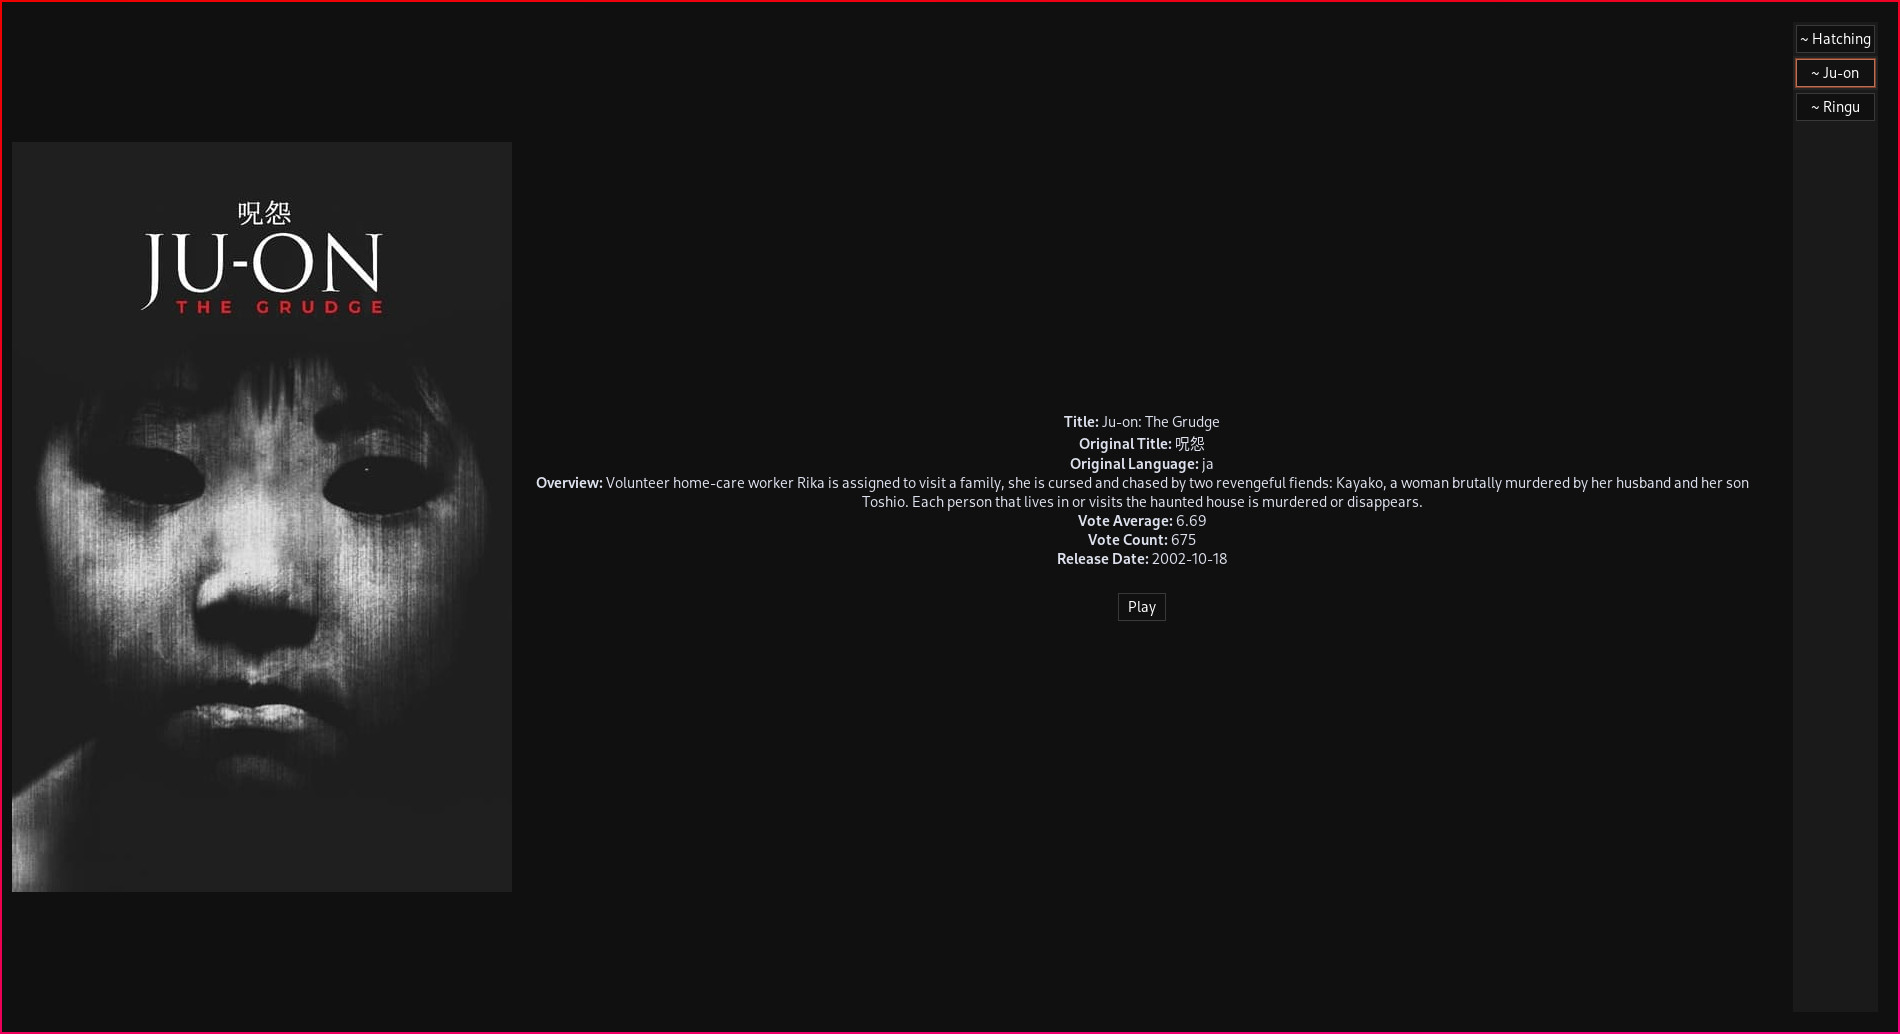
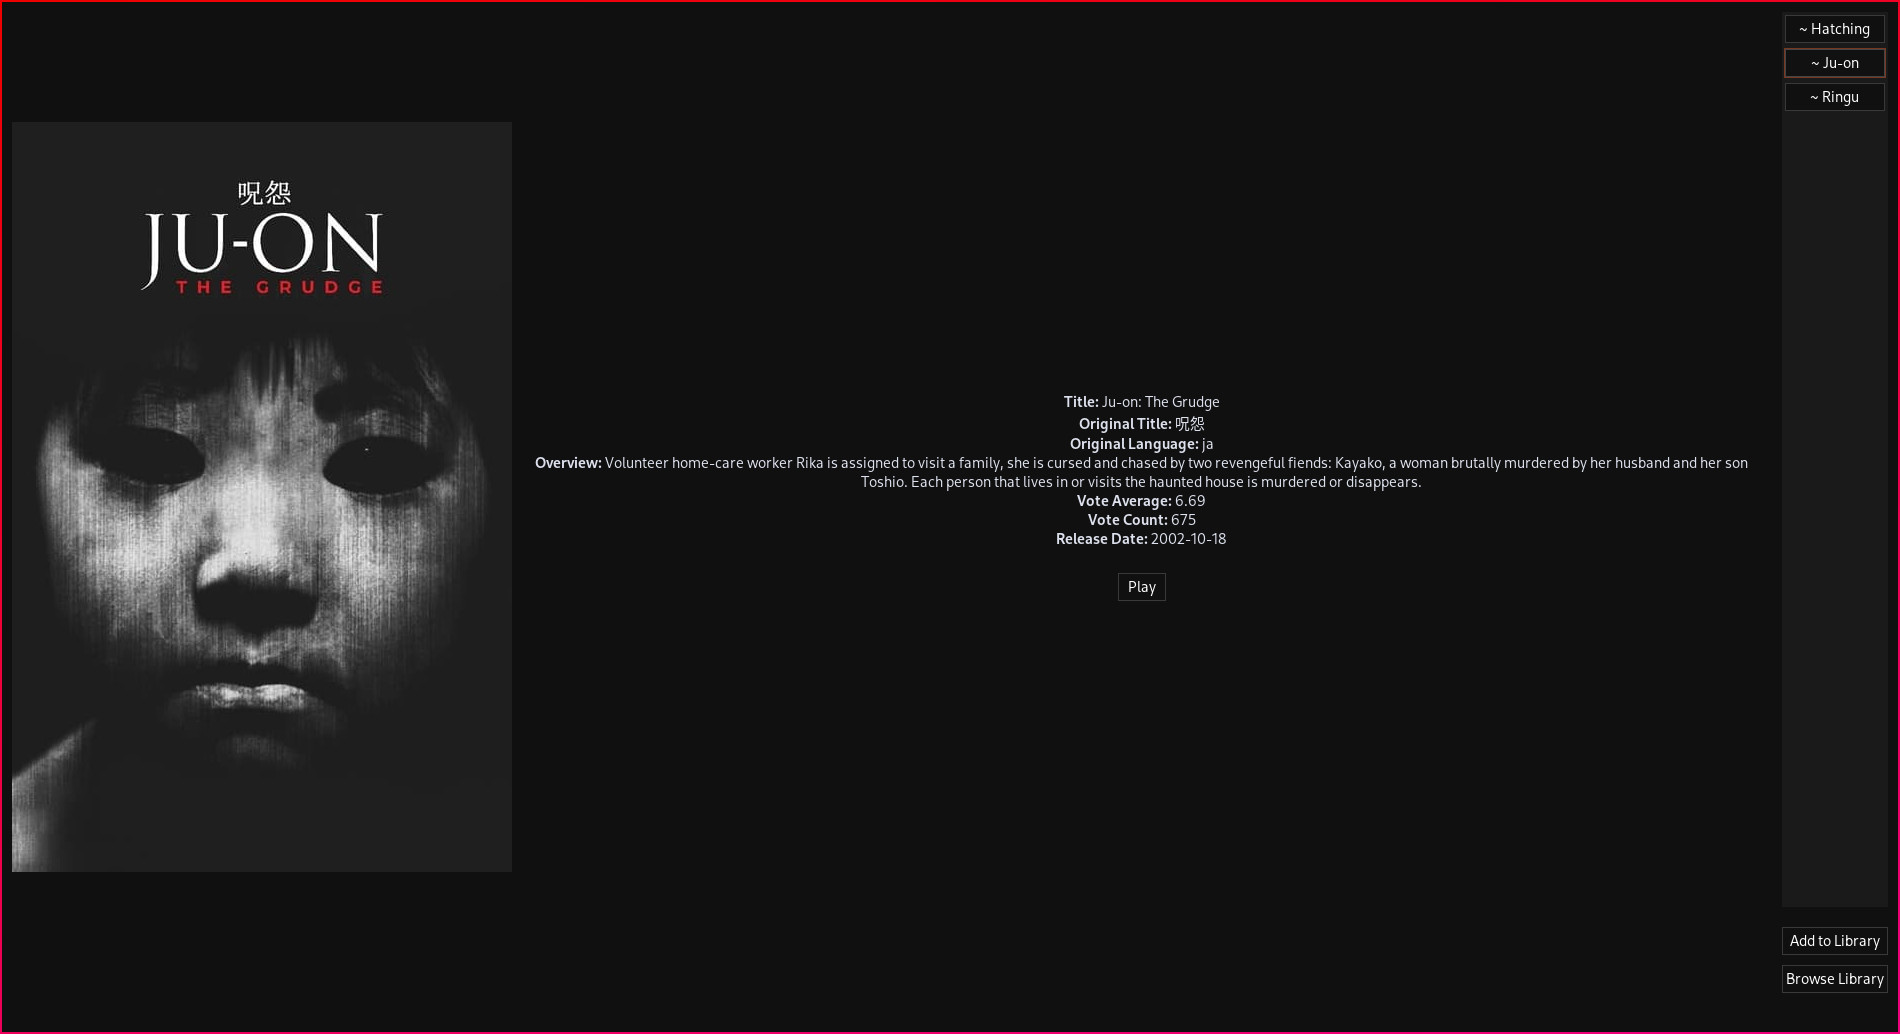
Updated screenshot

diff --git a/src/main_window.rs b/src/main_window.rs
@@ -60,40 +60,7 @@ impl Window {
         }));
 
         window.imp().add_button.deref().connect_clicked(clone!(@weak window => move |_| {
-            let filechooser = FileChooserDialog::with_buttons(
-                Some("Add movies"),
-                Some(&window),
-                FileChooserAction::SelectFolder,
-                &[("Add to library", ResponseType::Ok)]
-            );
-            filechooser.connect_response(clone!(@weak window => move |dialog, response| {
-                match response {
-                    ResponseType::Ok => {
-                        let filechooser = FileChooserDialog::with_buttons(
-                            Some("Save Library Item"),
-                            Some(&window),
-                            FileChooserAction::Save,
-                            &[("Save", ResponseType::Ok), ("Cancel", ResponseType::Cancel)]
-                        );
-                        filechooser.set_current_folder(utils::user_dir(user_data_dir()));
-                        filechooser.connect_response(clone!(@weak dialog => move |savedialog, response| {
-                            println!("Response: {:?}", response);
-                            match response {
-                                ResponseType::Ok => {
-                                    symlink::symlink_dir(dialog.file().unwrap().path().unwrap(), savedialog.file().unwrap().path().unwrap()).unwrap();
-                                },
-                                _ => {}
-                            }
-                            savedialog.close();
-                            dialog.close();
-                        }));
-                        filechooser.show();
-                    }
-                    _ => {}
-                }
-                dialog.hide();
-            }));
-            filechooser.show();
+            window.add_dir();
         }));
 
         window.imp().browse_button.deref().connect_clicked(clone!(@weak window => move |_| {
@@ -104,6 +71,44 @@ impl Window {
         }));
 
         window
+    }
+
+    fn add_dir(&self) {
+        let filechooser = FileChooserDialog::with_buttons(
+            Some("Add movies"),
+            Some(self),
+            FileChooserAction::SelectFolder,
+            &[("Add to library", ResponseType::Ok)]
+        );
+        filechooser.connect_response(clone!(@weak self as window => move |dialog, response| {
+            match response {
+                ResponseType::Ok => {
+                    let filechooser = FileChooserDialog::with_buttons(
+                        Some("Save Library Item"),
+                        Some(&window),
+                        FileChooserAction::Save,
+                        &[("Save", ResponseType::Ok), ("Cancel", ResponseType::Cancel)]
+                    );
+                    filechooser.set_current_folder(utils::user_dir(user_data_dir()));
+                    filechooser.connect_response(clone!(@weak dialog => move |savedialog, response| {
+                        println!("Response: {:?}", response);
+                        match response {
+                            ResponseType::Ok => {
+                                symlink::symlink_dir(dialog.file().unwrap().path().unwrap(), savedialog.file().unwrap().path().unwrap()).unwrap();
+                                window.update();
+                            },
+                            _ => {}
+                        }
+                        savedialog.close();
+                        dialog.close();
+                    }));
+                    filechooser.show();
+                }
+                _ => {}
+            }
+            dialog.hide();
+        }));
+        filechooser.show();
     }
 
     fn update(&self) {
